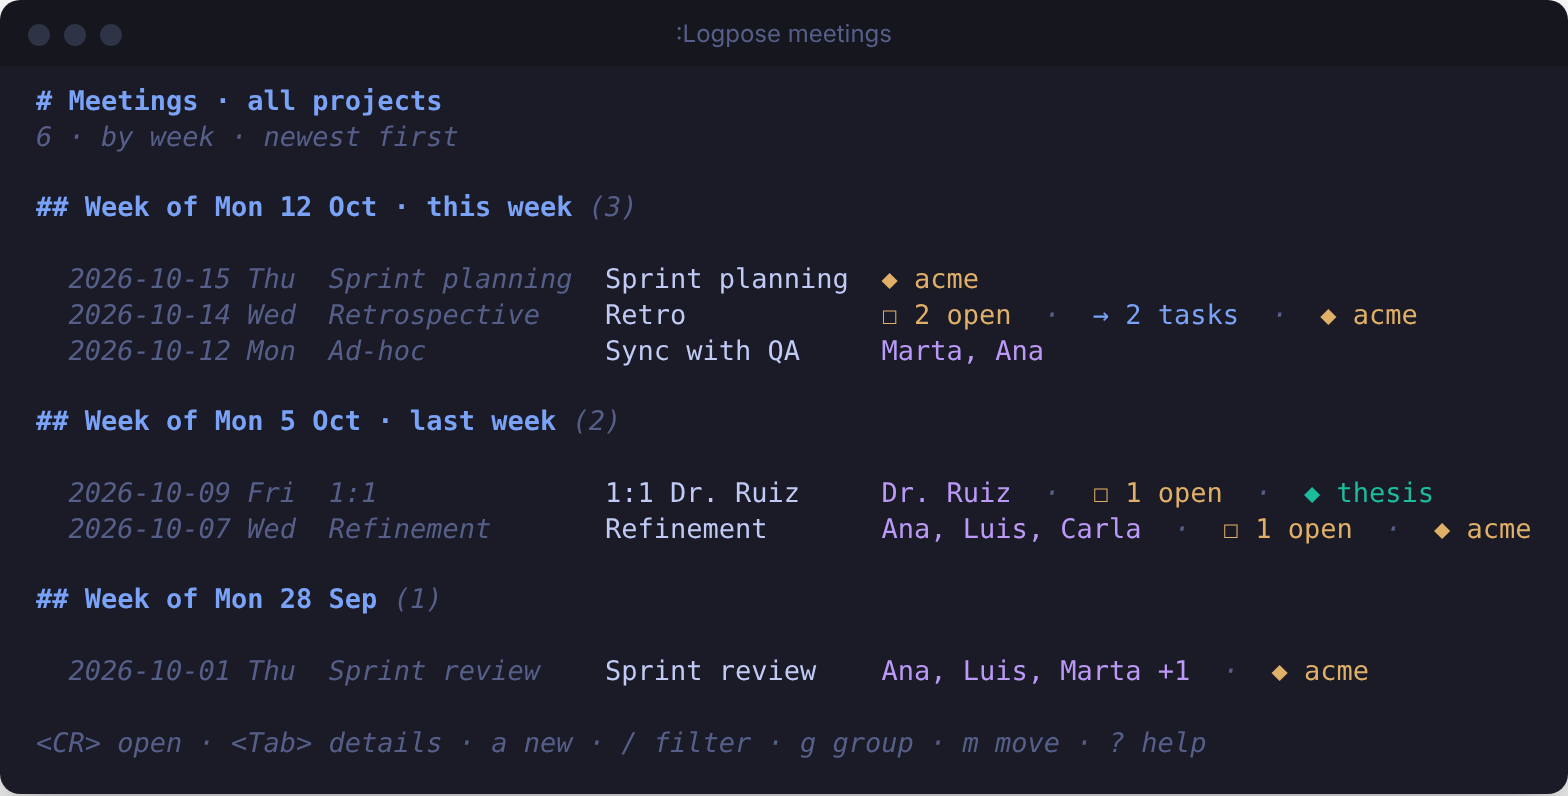
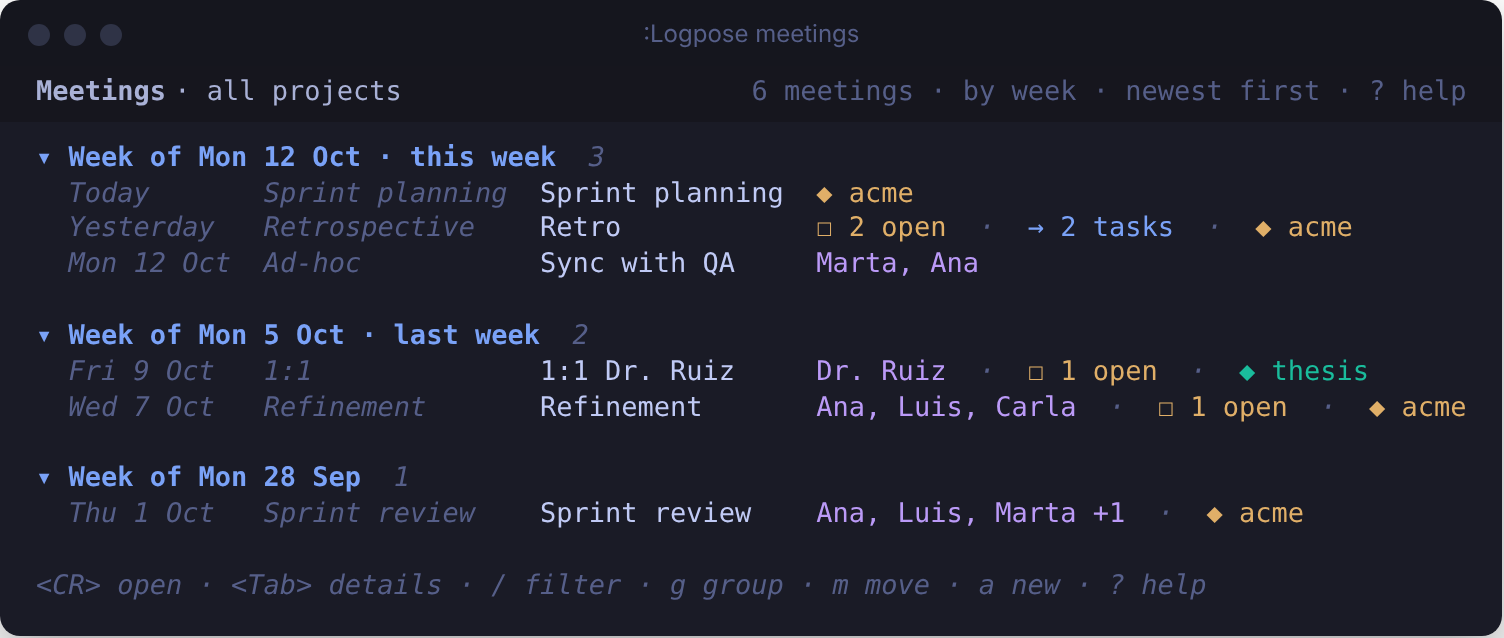
docs: the filter bar and help windows

diff --git a/docs/SPEC.md b/docs/SPEC.md
@@ -64,7 +64,7 @@ capture/done, sprint-aware archives and reports.
 
 **Releases.** Annotated tags in `MAJOR.MINOR.PATCH` form (no `v` prefix). Each completed feature
 bumps the minor version (0.1.0 = F0+F1, 0.2.0 = F1.5, 0.3.0 = F1.6, 0.4.0 = F2, 0.5.0 = F2.1, 0.6.0 = F3, 0.7.0 = F4, 0.8.0 = F5, 0.9.0 = F6, 0.10.0 = O1, 0.11.0 = O2, 0.12.0 = O3, 0.13.0 = O4, 0.14.0 = O5, 0.15.0 = O6, 0.16.0 = F7,
-0.17.0 = F8, 0.18.0 = T1, 0.19.0 = live search and previews, 0.20.0 = B1, 0.21.0 = markdownlint-clean notes, 0.22.0 = timestamps, board look and delete, 0.23.0 = peek, scrolling columns, WIP limits and age, 0.23.1 = board resize fixes, 0.24.0 = command menu, statusline, board undo, 0.25.0 = today, keymaps preset, titled notifications, board extras, 0.25.1 = docs rewrite, 0.26.0 = project manager, project completion and board-follows-project fixes, 0.27.0 = project switcher, project pages as registry, moving tasks between projects, merging projects, 0.28.0 = switching opens the board, 0.28.1 = board and projects split into modules, tests 40× faster, 0.28.2 = caching for big journals, 0.29.0 = frontmatter editor, 0.30.0 = capture picks the project, form rework, bulk edits, 0.30.1 = completion menu closes after a choice, 0.30.2 = <CR> accepts from the menu, nvim-cmp off in the form, 0.31.0 = the edit form stays open after saving, 0.32.0 = card redesign, 0.32.1 = automatic project colours, no cursorline on the board, 0.33.0 = borders tinted with the project's colour, 0.34.0 = column-coloured borders by default again, tags as chips, 0.35.0 = shared date wording and frontmatter writer; triage, move and the switcher removed, 0.36.0 = new-task form, 0.37.0 = linked notes on cards, recently edited notes on today, 0.38.0 = tasks, notes and to-dos kept apart; INBOX, DONE and migrate removed, 0.39.0 = notes screen, 0.40.0 = new-note forms, 0.40.1 = gx follows note links, 0.40.2 = promoted to-dos start in Backlog, 0.40.3 = gx works alongside a markdown plugin's, 0.41.0 = notes from tasks; promoted to-dos keep their text, 0.42.0 = people: a list, forgiving matching, completion in notes, 0.43.0 = people pages and the people screen, 0.44.0 = to-dos and their tasks in step, 0.45.0 = "no project" mode, 0.46.0 = filter language with or/not/fields; meetings, notes and people lists); fixes bump the patch;
+0.17.0 = F8, 0.18.0 = T1, 0.19.0 = live search and previews, 0.20.0 = B1, 0.21.0 = markdownlint-clean notes, 0.22.0 = timestamps, board look and delete, 0.23.0 = peek, scrolling columns, WIP limits and age, 0.23.1 = board resize fixes, 0.24.0 = command menu, statusline, board undo, 0.25.0 = today, keymaps preset, titled notifications, board extras, 0.25.1 = docs rewrite, 0.26.0 = project manager, project completion and board-follows-project fixes, 0.27.0 = project switcher, project pages as registry, moving tasks between projects, merging projects, 0.28.0 = switching opens the board, 0.28.1 = board and projects split into modules, tests 40× faster, 0.28.2 = caching for big journals, 0.29.0 = frontmatter editor, 0.30.0 = capture picks the project, form rework, bulk edits, 0.30.1 = completion menu closes after a choice, 0.30.2 = <CR> accepts from the menu, nvim-cmp off in the form, 0.31.0 = the edit form stays open after saving, 0.32.0 = card redesign, 0.32.1 = automatic project colours, no cursorline on the board, 0.33.0 = borders tinted with the project's colour, 0.34.0 = column-coloured borders by default again, tags as chips, 0.35.0 = shared date wording and frontmatter writer; triage, move and the switcher removed, 0.36.0 = new-task form, 0.37.0 = linked notes on cards, recently edited notes on today, 0.38.0 = tasks, notes and to-dos kept apart; INBOX, DONE and migrate removed, 0.39.0 = notes screen, 0.40.0 = new-note forms, 0.40.1 = gx follows note links, 0.40.2 = promoted to-dos start in Backlog, 0.40.3 = gx works alongside a markdown plugin's, 0.41.0 = notes from tasks; promoted to-dos keep their text, 0.42.0 = people: a list, forgiving matching, completion in notes, 0.43.0 = people pages and the people screen, 0.44.0 = to-dos and their tasks in step, 0.45.0 = "no project" mode, 0.46.0 = filter language with or/not/fields; meetings, notes and people lists, 0.47.0 = filter bar, help windows, lists polish); fixes bump the patch;
 1.0.0 once M3 is done.
 
 ---
@@ -1308,6 +1308,35 @@ anything in their frontmatter (with `and`, `or`, `not`), and changed by moving t
 **Tests** (`test_query.lua`, `test_lists.lua`, `test_lists_people.lua`): the language (or, not,
 parentheses, fields, people, dates, ranges, lenient parsing), each list's rows, details,
 groupings, filters and moves, projects screen `f`.
+
+## C9 — Discoverable filters, polished lists (0.47.0)
+
+**Goal.** The filter language can be learned while using it, and the lists read at a glance.
+
+**Design**
+- `filter/init.lua`: `complete(token, root)` → `{ word, abbr, menu }` for the word being typed:
+  filter names with a description (and the frontmatter keys in use), then values by key:
+  projects, tags, people (by any part of the name, inserted as handles), meeting types and kinds
+  of notes, board columns, sections, field names (`has:`/`no:`), dates with what they mean today
+  (`today`, `-7d`, this month, a range), or a field's values in the journal, most used first. A
+  leading `-` is kept. `CHEATSHEET` / `cheatsheet_lines()` for help windows. `:Logpose find`
+  completion uses it for values.
+- `filter/bar.lua`: a one-line float over the list or board window (`relative = "win"`).
+  `on_change` re-applies the filter as you type (deferred 40 ms) and returns a count shown on the
+  lower edge with the ignored words (lenient `query.parse`'s skipped) and, when empty, examples.
+  Our own popup (`vim.fn.complete`, `completeopt=menuone,noinsert,noselect` while open; blink and
+  nvim-cmp off in the buffer), re-asked on every change, not re-offered after `<Esc>` closes it
+  until the text changes; `<Tab>`, `<CR>` (accept a selected item, else keep the filter), `<Esc>`
+  (close the menu, else restore), `<F1>` (cheat sheet). Leaving the window keeps the filter.
+- `util/help.lua`: help floats (`open`, `keys(rows)`, `with_filters`) for the lists, the board and
+  the projects screen, replacing notifications.
+- Lists: the title, scope, filter and "N meetings · by week · newest first · ? help" move to the
+  winbar (like the board); groups are `▾ Label  N` (`▸` folded); dates in words (Today,
+  Yesterday, Wed 14 Oct); details drawn as a tree (`├`, `└`); empty results say what to do;
+  `<BS>` clears the filter (board too).
+
+**Tests**: completion items (`test_lists.lua`), the bar (live list, menu, count, ignored words,
+`<Esc>` restores, `<BS>` clears), help windows, the board's bar.
 
 ## 5. Command reference (final state)
 

diff --git a/README.md b/README.md
@@ -405,13 +405,24 @@ date instead.
 | `<CR>` | Open it. On a heading, fold the group; on `… N more`, show the rest. |
 | `<Tab>` | Details: the attendees, action items, linked tasks; for a person, their meetings, to-dos and mentions. `<CR>` opens any of them. |
 | `K` | Peek: the note in a floating window, to read and edit. |
-| `/` | Filter, with the [find filters](#search-filters): `type:retro or type:review`, `attendees:ana date>=-30d`, `-#draft`… |
+| `/` | The filter bar (below): the list follows as you type. `<BS>` clears the filter. |
 | `g` / `s` | Change the grouping / the order (newest, oldest, by title; people: recently met, by name, most involved). |
 | `m`, `<`, `>` | Move to another group (asks, with `new…` for a new project, tag or role) / the previous / the next. |
 | `e` / `a` | Edit in the form / add a new one in the group you're in. |
 | `p` | This project / all projects. |
 | `z`, `]]`, `[[` | Fold the group; jump to the next / previous group. |
-| `r` / `q` / `?` | Refresh / close / help. |
+| `r` / `q` / `?` | Refresh / close / the keys and the filter cheat sheet. |
+
+### The filter bar
+
+`/` on a list or the board opens a one-line filter over it. What's behind it updates as you
+type, and a menu shows what you can type next, each with a word on what it does: first the
+filters (`type:`, `attendees:`, `date>=`, `or`, `not`, and the fields your notes use, like
+`room:`), then their values from your journal (meeting types, projects, tags, people, dates
+like `today` or `-7d`). `<Tab>` completes, `<CR>` keeps the filter, `<Esc>` puts the old one
+back and `<F1>` shows the cheat sheet. The bar's lower edge counts what matches and names any
+word it ignored (a half-typed `since:2026-1`, say). `?` on a list shows its keys and the same
+cheat sheet; `:Logpose find` completes filter values on the command line too.
 
 The people list adds `y` (copy a way to reach them), `o` (open it: mail, chat), `1` (start a 1:1)
 and `R` (rename them everywhere); the notes list `d` (today's daily note) and `b` (the board).
@@ -557,7 +568,9 @@ separate scopes: `notes` never lists tasks. Everything after it is a
 | `a or b`, `not a`, `-a`, `( … )` | either, neither, grouping |
 | any other word | must appear in the text |
 
-All filters are in the [reference](#search-filters).
+All filters are in the [reference](#search-filters). On the board and the lists, `/` opens the
+[filter bar](#the-filter-bar), which suggests filters and their values as you type, and `?`
+shows a cheat sheet.
 
 **Live search.** With snacks, fzf-lua or Telescope, the picker prompt holds the query: it starts
 with what you typed on the command line, and results update as you edit it. Half-typed filters
@@ -891,12 +904,12 @@ mapping. A `!` can go on either word: `:Logpose archive!` is the same as `:Logpo
 | `z` | fold / unfold the column | `gg` `G` | first / last card |
 | `u` | undo | `<C-r>` | redo |
 | `c` | compact one-line cards | `s` | one row per project |
-| `<CR>` | open the task file | `/` | filter (same filters as `find`) |
+| `<CR>` | open the task file | `/` | the [filter bar](#the-filter-bar); `<BS>` clears the filter |
 | `p` | this project / all projects | `P` | projects screen (switch there) |
 | `m` | move the card to another project | `e` | edit the card's fields |
 | `v` | mark / unmark the card | `V` `<Esc>` | unmark all |
 | `r` | refresh | `q` | close |
-| `?` | help | | |
+| `?` | the keys and the filter cheat sheet | | |
 
 With cards marked, `H` `L`, `1`–`9`, `x`, `b`, `m` and `e` act on all of them as one undo step.
 
